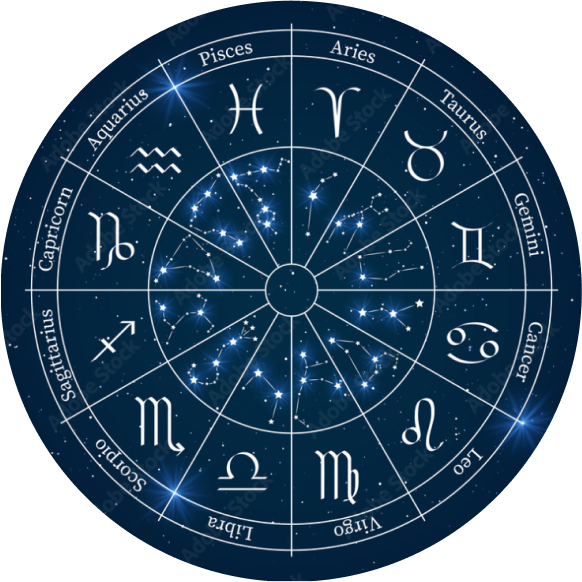
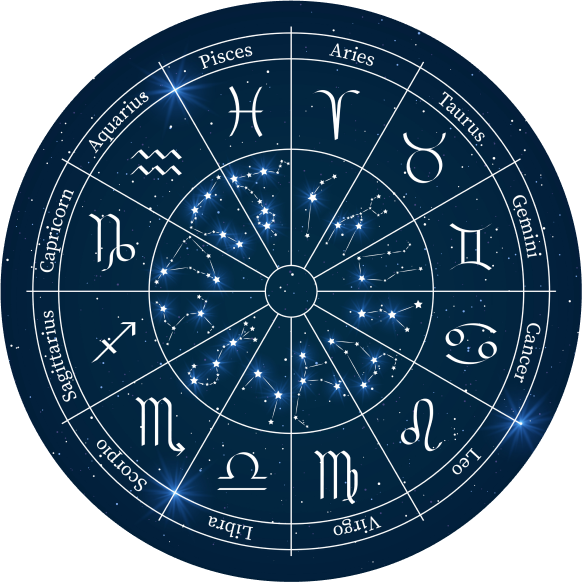
added licensed zodiac

diff --git a/src/components.js b/src/components.js
@@ -1,6 +1,6 @@
 import React from 'react';
 import styled from 'styled-components';
-import { css } from "styled-components";
+import { css, createGlobalStyle } from "styled-components";
 import './components.css';
 import {getHouseDetails} from "./HouseDetails.js"
 import {BirthLagna} from  "./BirthLagna.js"
@@ -22,7 +22,8 @@ class Chart extends React.Component {
       moonProps: props.moonProps,
       ketuProps: props.ketuProps,
       saturnProps: props.saturnProps,
-      ascProps: props.ascProps,      
+      ascProps: props.ascProps,
+      housesProps: props.housesProps,       
     };
     this.handler = this.handler.bind(this);
     this.handlerBirthLagna = this.handlerBirthLagna.bind(this);
@@ -33,11 +34,11 @@ class Chart extends React.Component {
     })
   }
 
-  handlerBirthLagna(date, asc, planetData) {
-    console.log("date, asc planets: ", date, asc, planetData);
+  handlerBirthLagna(date, planetData) {
+    console.log("date, asc planets: ", date, planetData);
+
     this.setState({
         date: date,
-        asc: asc,
         sunProps: {"name": "Sun", "angle": planetData[1]+"deg"},
         moonProps: {"name": "Moon", "angle": planetData[2]+"deg"},
         mercuryProps: {"name": "Mercury", "angle": planetData[3]+"deg"},
@@ -47,8 +48,7 @@ class Chart extends React.Component {
         saturnProps: {"name": "Saturn", "angle": planetData[7]+"deg"},
         rahuProps: {"name": "Rahu", "angle": planetData[11]+"deg"},
         ketuProps: {"name": "Ketu", "angle": planetData[12]+"deg"},
-        ascProps: {"name": "ASC", "angle": planetData[13]+"deg"},
-
+        ascProps: {"name": "ASC", "angle": planetData[13]},
     })
   } 
   render() {
@@ -71,7 +71,7 @@ class Chart extends React.Component {
         <div className="chart">
           <OverlapGroupChart>
             <Zodiac style={{ backgroundImage: `url(${zodiac})` }}></Zodiac>
-            <Houses handler = {this.handler} data = {housesProps} />
+            <Houses handler = {this.handler} angle={this.state.ascProps.angle} data = {this.state.housesProps} />
             <Asc {...this.state.ascProps}/>
             <Planets>
               <OverlapGroup13>
@@ -112,7 +112,7 @@ export const ValignTextMiddle = css`
 export const RobotoNormalWhite176px = css`
   color: var(--white);
   font-family: var(--font-family-roboto);
-  font-size: 18px; //var(--font-size-m2);
+  font-size: 20px;//var(--font-size-m2);
   font-weight: 400;
   font-style: normal;
 `;
@@ -120,7 +120,7 @@ export const RobotoNormalWhite176px = css`
 export const RobotoNormalWhite131px = css`
   color: var(--white);
   font-family: var(--font-family-roboto);
-  font-size: 12px; //var(--font-size-xs);
+  font-size: 12px; var(--font-size-xs);
   font-weight: 400;
   font-style: normal;
 `;
@@ -206,7 +206,7 @@ class Houses extends React.Component {
         <OverlapGroup12>
           {this.props.data.map((props) => {
             return (
-            <HouseV2 handler = {this.props.handler} {...props}/>)
+            <HouseV2 angle={this.props.angle} handler = {this.props.handler} {...props}/>)
           })}
           </OverlapGroup12>
           </HousesStyle>);
@@ -232,10 +232,10 @@ const OverlapGroup12 = styled.div`
 
 class HouseV2 extends React.Component {
   render() {
-    const { handler, attrib1, value1, attrib2, value2, attrib3, value3, className } = this.props;
+    const { angle, handler, attrib1, value1, attrib2, value2, attrib3, value3, className } = this.props;
 
     return (
-      <HouseStyle handler= {handler} className={`house ${className}`}>
+      <HouseStyle handler= {handler}  angle={angle} className={`house ${className}`}>
         <OverlapGroupHouseAtrib  onClick= {() => handler(className) } className="overlap-group">
           <Attrib3 className="attrib3">
             {attrib3 + ":" + value3}
@@ -269,54 +269,53 @@ const HouseStyle = styled.div`
   align-items: center;
   justify-content: space-between;
   overflow: hidden;
-  //transform: rotate(0deg);
+  //transform: rotate(30deg);
   transform: unset;
 
   &.house.house1 {
-    transform: rotate(0deg) translate(-400px);
+    transform:   rotate(${props => props.angle ? (props.angle + 0) + "deg": "0deg"}) rotate(0deg)  translate(-400px);
   }
   &.house.house2 {
-    transform: rotate(30deg) translateX(-400px);
+    transform:  rotate(${props => props.angle ? (props.angle + 30) + "deg": "0deg"})  translateX(-400px);
   }
   &.house.house3 {
-    transform: rotate(60deg) translateX(-400px);
+    transform:  rotate(${props => props.angle ? (props.angle + 60) + "deg": "0deg"}) translateX(-400px);
   }
   &.house.house4 {
-    transform: rotate(90deg) translateX(-400px);
-  }
-
-  &.house.house11 {
-    transform: rotate(-60deg) translateX(-400px);
-  }
-
-  &.house.house10 {
-    transform: rotate(-90deg) translateX(-400px);
-  }
-
-  &.house.house9 {
-    transform: rotate(-120deg) translateX(-400px);
-  }
-
-  &.house.house8 {
-    transform: rotate(-150deg) translateX(-400px);
-  }
-
-  &.house.house7 {
-    transform: rotate(180deg) translateX(-400px);
-  }
-
-  &.house.house6 {
-    transform: rotate(150deg) translateX(-400px);
+    transform:  rotate(${props => props.angle ? (props.angle + 90) + "deg": "0deg"}) translateX(-400px);
   }
 
   &.house.house5 {
-    transform: rotate(120deg) translateX(-400px);
+    transform:  rotate(${props => props.angle ? (props.angle + 120) + "deg": "0deg"}) translateX(-400px);
+  }
+
+  &.house.house6 {
+    transform:  rotate(${props => props.angle ? (props.angle + 150) + "deg": "0deg"}) translateX(-400px);
   }
 
 
+  &.house.house7 {
+    transform:  rotate(${props => props.angle ? (props.angle + 180) + "deg": "0deg"}) translateX(-400px);
+  }
+
+  &.house.house8 {
+    transform:  rotate(${props => props.angle ? (props.angle  -150) + "deg": "0deg"}) translateX(-400px);
+  }
+
+  &.house.house9 {
+    transform:  rotate(${props => props.angle ? (props.angle -120) + "deg": "0deg"}) translateX(-400px);
+  }
+
+  &.house.house10 {
+    transform:  rotate(${props => props.angle ? (props.angle - 90) + "deg": "0deg"}) translateX(-400px);
+  }
+
+  &.house.house11 {
+    transform:  rotate(${props => props.angle ? (props.angle - 60) + "deg": "0deg"}) translateX(-400px);
+  }
 
   &.house.house12 {
-    transform: rotate(-30deg) translateX(-400px);
+    transform:  rotate(${props => props.angle ? (props.angle - 30) + "deg": "0deg"}) translateX(-400px);
   }
 `;
 
@@ -409,7 +408,7 @@ const Asc1 = styled.div`
   border-radius: 38.89px;
   overflow: hidden;
   opacity: 0.7;
-  transform: rotate(${props => props.angle ? props.angle: "0deg"}) translate(300px);
+  transform: rotate(${props => props.angle ? props.angle +"deg": "0deg"}) translate(-300px);
   //transform: rotate(${props => "0deg"}) translate(-300px);
 
 `;
@@ -436,7 +435,7 @@ const Planet = styled.div`
   //align-items: flex-end;
   //min-width: 642px;
   //transform: rotate(0deg);
-  transform: rotate(${props => props.angle ? props.angle: "0deg"});
+  transform: rotate(${props => props.angle ? props.angle : "0deg"});
 `;
 
 class Sun extends React.Component {
@@ -947,7 +946,7 @@ const HouseDetailContainer = styled.div`
 
 const SidePanel = styled.div`
   font-family: var(--font-family-roboto);
-  font-size: 18px; //var(--font-size-m2);
+  font-size: var(--font-size-m2);
   width: 100%;
   height: 100%;
   overflow-y: auto;
@@ -1160,8 +1159,7 @@ const saturnData = {
 
 const ascData = {
   name: "ASC",
-  angle: "0deg",
-
+  angle: 180,
 };
 
 

diff --git a/src/BirthLagna.js b/src/BirthLagna.js
@@ -37,15 +37,15 @@ class BirthLagna extends React.Component {
         //planetPosition1 = calPlanetPosition2( 1964, 6, 25, 20, 0, 16, 82 );        
         planetPosition = calPlanetPosition2( year, month, day, hours, minutes, longitude, latitude );        
 
-        this.props.handler(0, date, planetPosition)
+        this.props.handler(date, planetPosition)
 
     }    
     componentDidMount() {
       console.log('componentDidMount() lifecycle');
-      const script = document.createElement("script");
-      script.src="https://maps.googleapis.com/maps/api/js?&v=3.exp&libraries=geometry,drawing,places";
-      script.async = true;
-      document.body.appendChild(script);      
+      //const script = document.createElement("script");
+      //script.src="https://maps.googleapis.com/maps/api/js?&v=3.exp&libraries=geometry,drawing,places";
+      //script.async = true;
+      //document.body.appendChild(script);      
     }
     render() {
       return (

diff --git a/src/App.js b/src/App.js
@@ -2,6 +2,8 @@ import React from 'react';
 //import logo from './logo.svg';
 import './App.css';
 import {Chart, chartData} from './components.js'
+
+
 class App extends React.Component {
 
   componentDidMount() {
